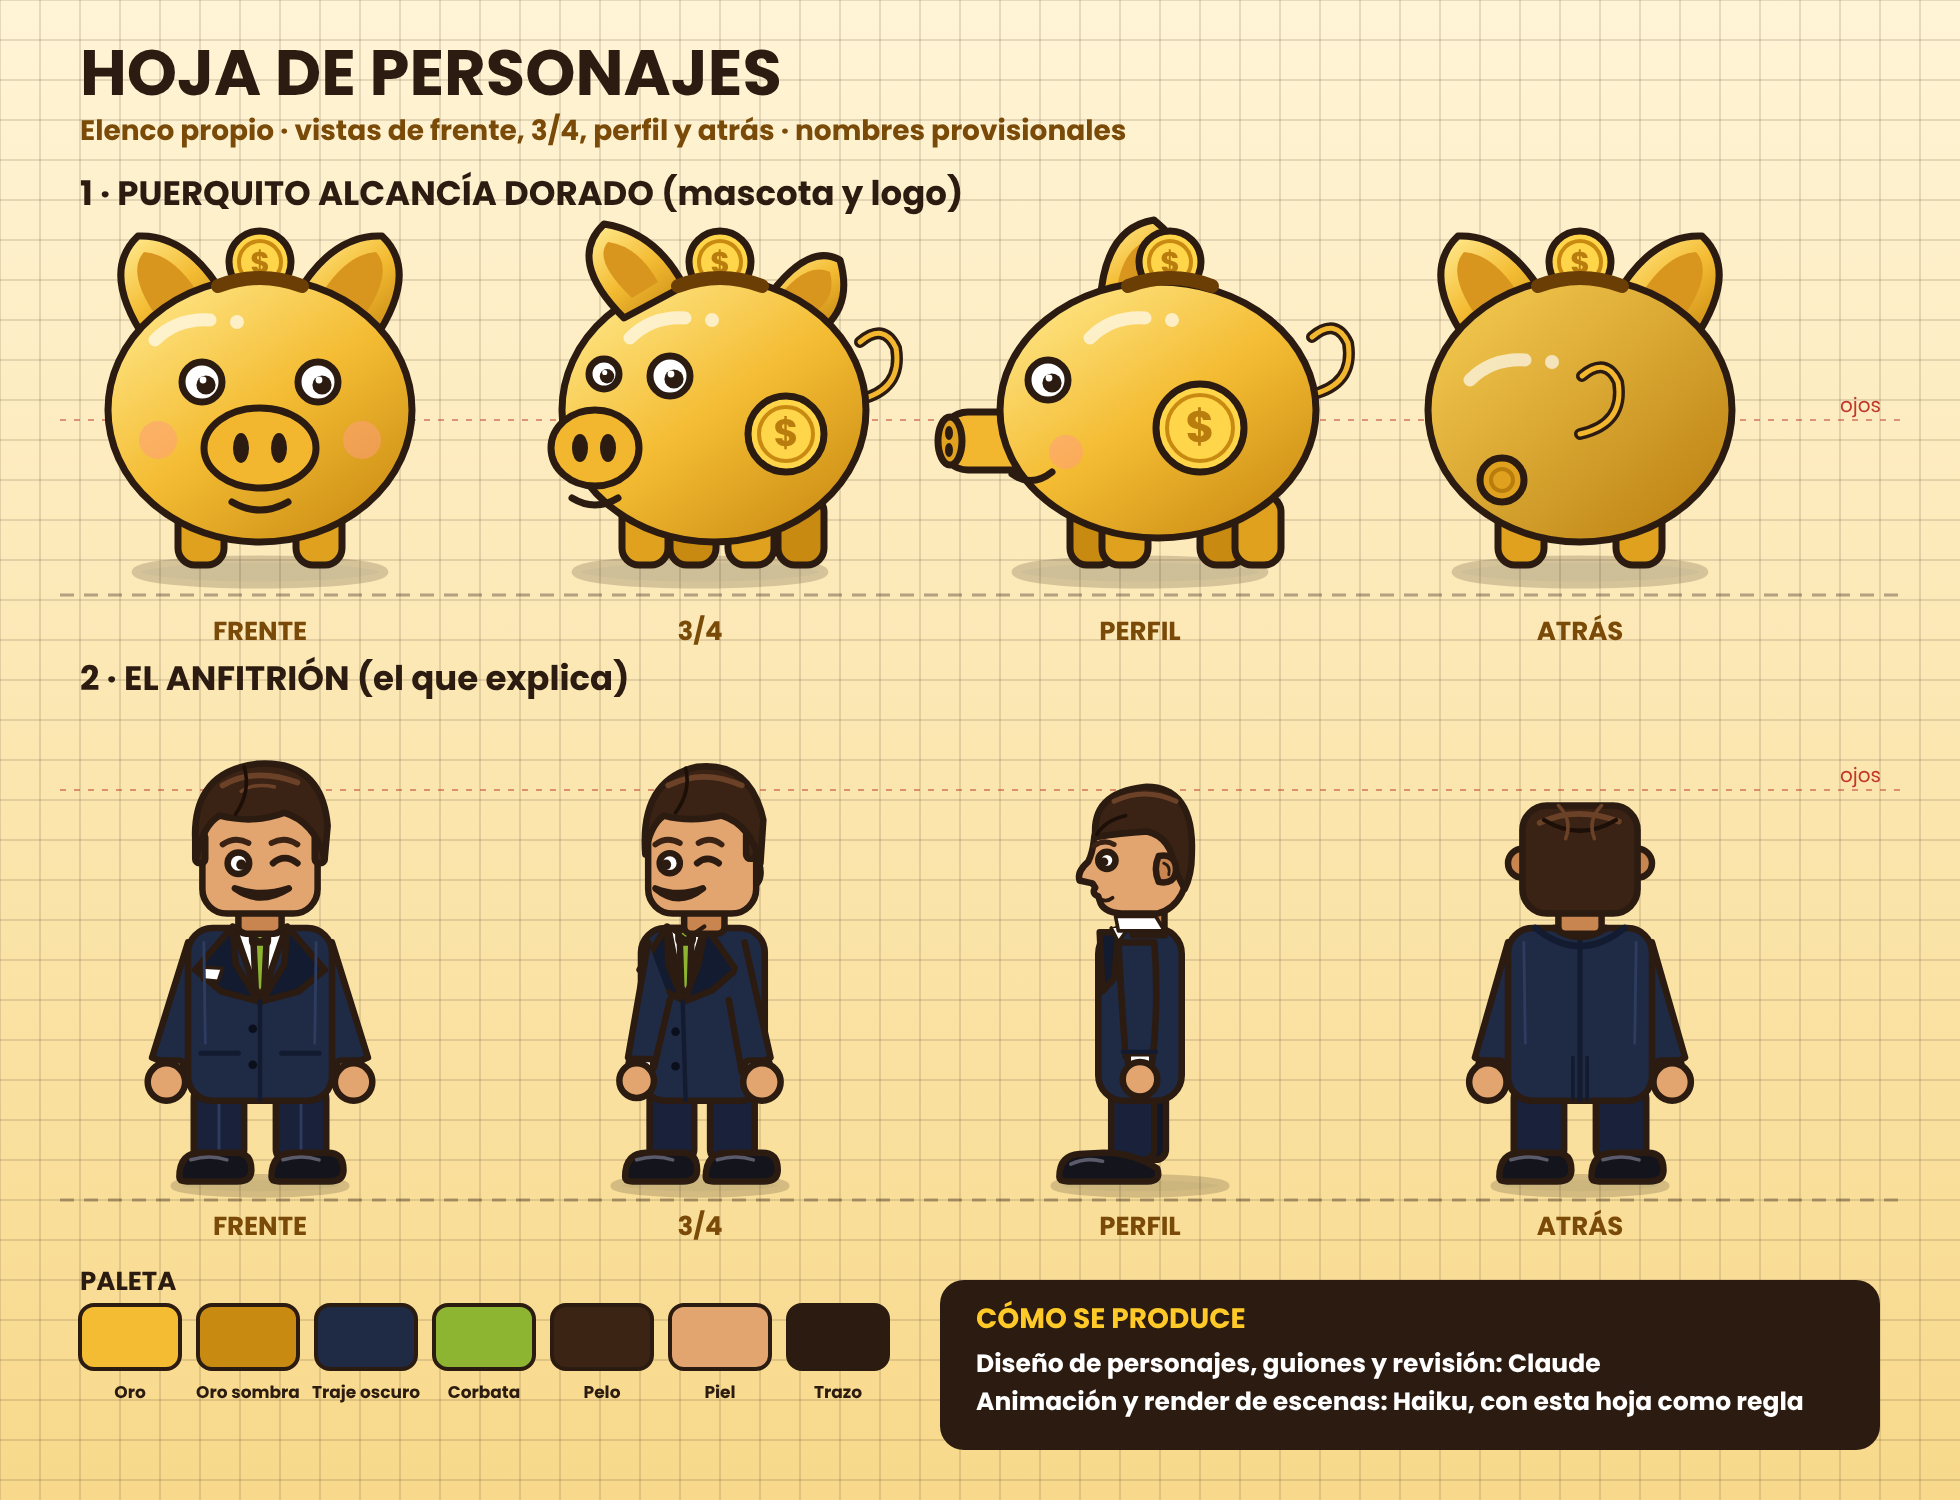
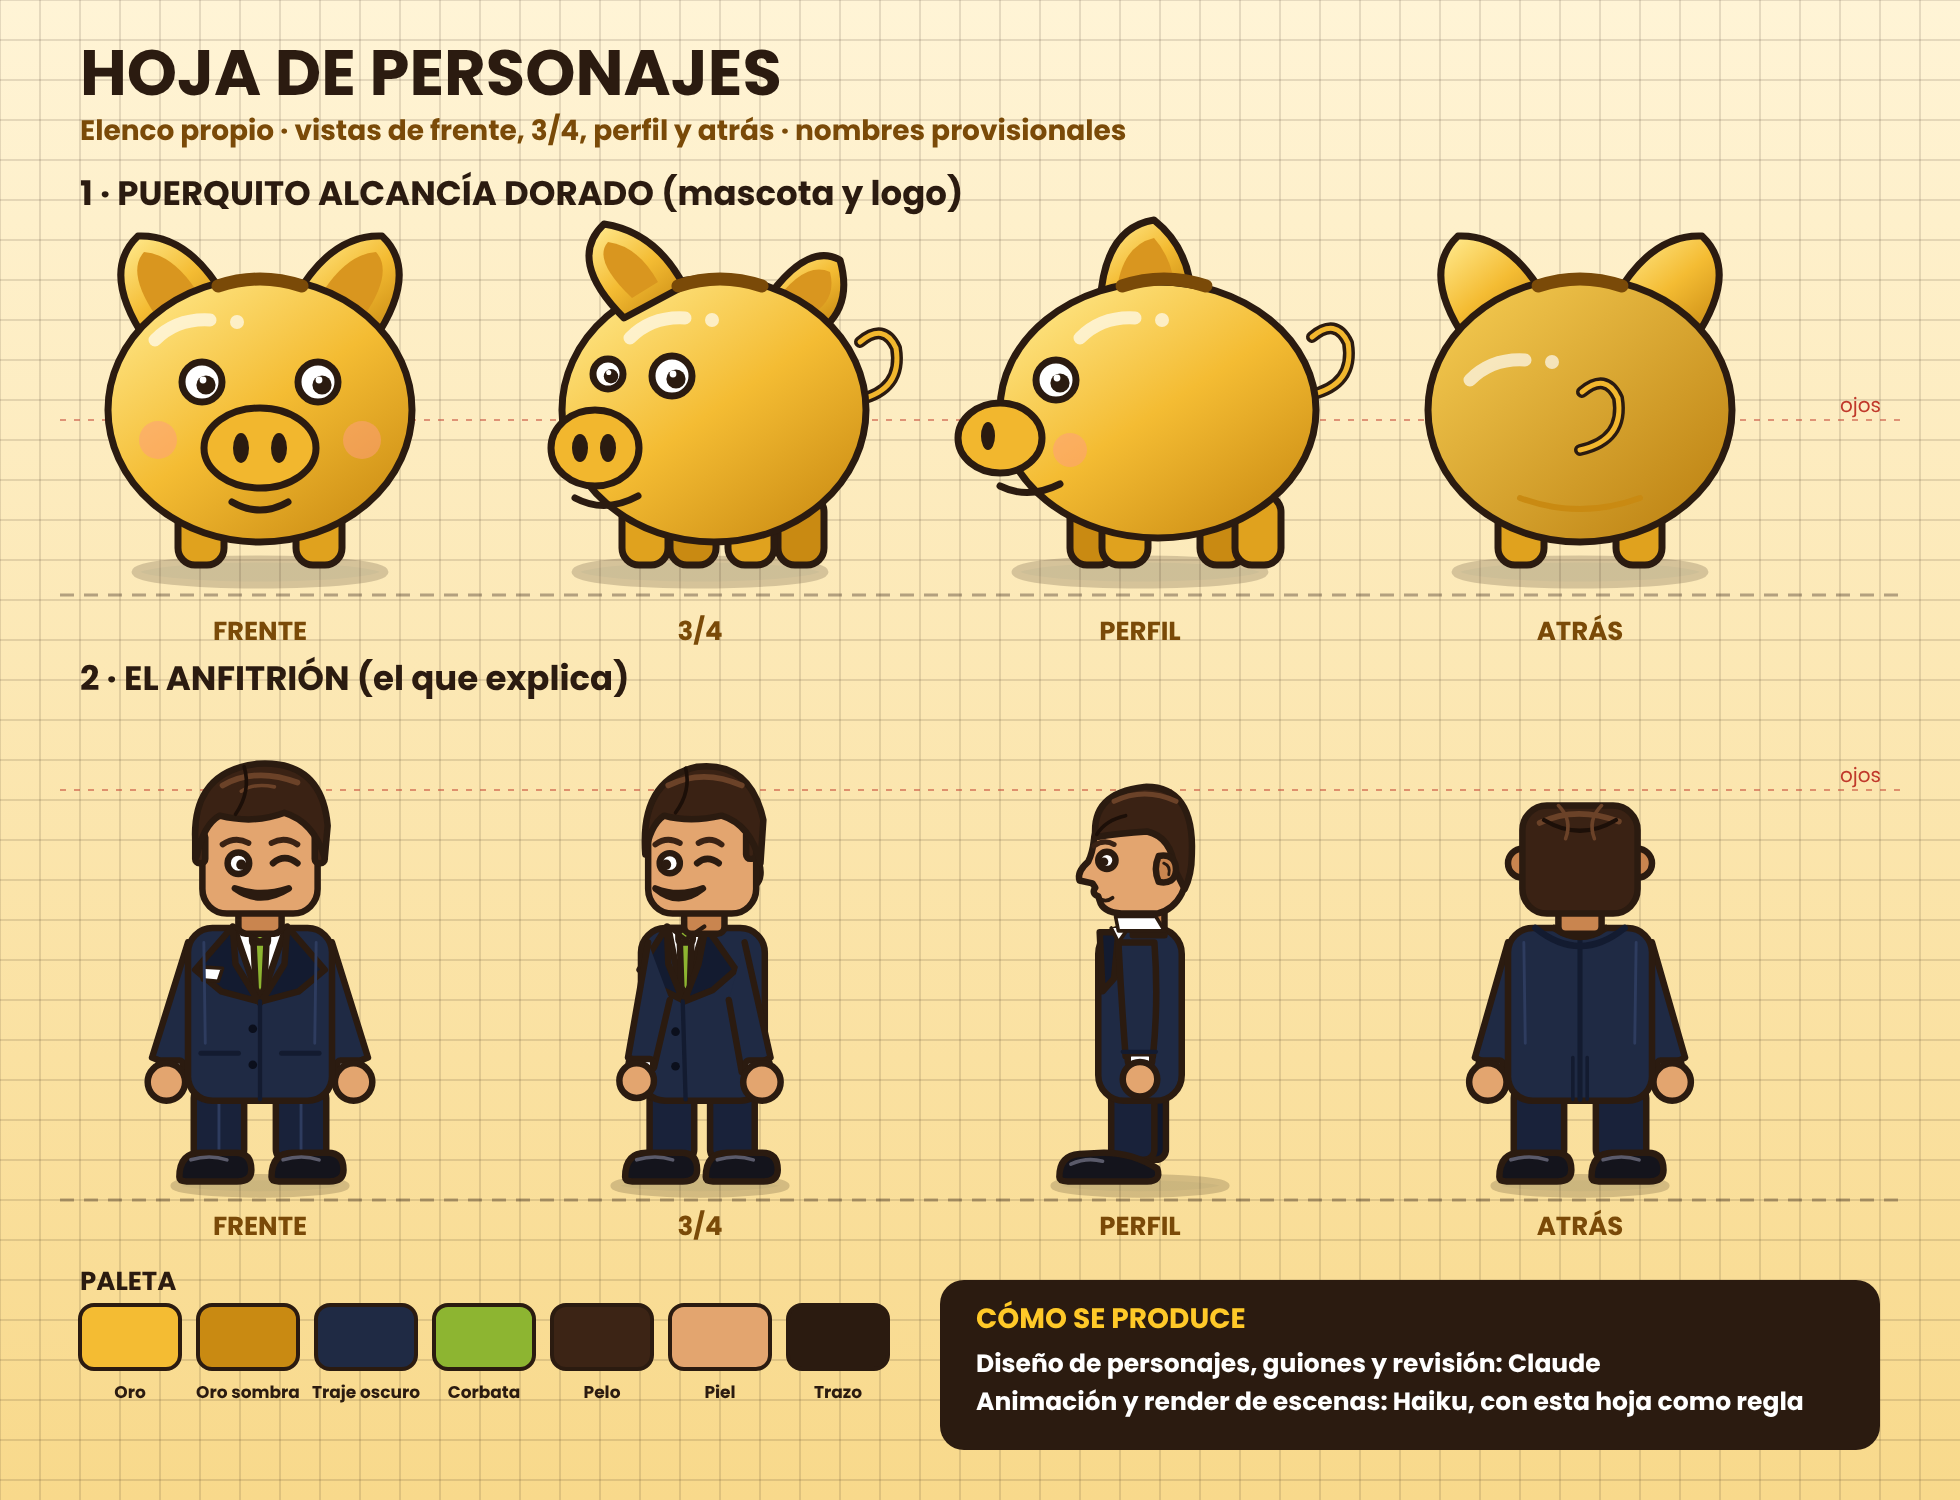
Hoja de personajes v4: puerquito vuelve a la versión anterior, humano v3
Claude-Session: https://claude.ai/code/session_011yrhm4PhhmsXz12GSLZFeN

diff --git a/pruebas/identidad/gen_hoja.py b/pruebas/identidad/gen_hoja.py
@@ -7,26 +7,17 @@ def pig(view):
     def leg(x,dark=False):
         a(f'<rect x="{x}" y="85" width="46" height="70" rx="17" fill="{"#C98A12" if dark else "#E0A21E"}"/>')
     def slot(cx,w=84):
-        a(f'<path d="M{cx-w/2} -124 Q{cx} -140 {cx+w/2} -124" fill="none" stroke="#6B3E06" stroke-width="14"/>')
-    def coin(cx):
-        a(f'<circle cx="{cx}" cy="-148" r="31" fill="#FFD54A"/><circle cx="{cx}" cy="-148" r="21" fill="none" stroke="#C98A12" stroke-width="4"/>')
-        a(f'<text x="{cx}" y="-137" text-anchor="middle" font-family="Poppins,Arial" font-weight="900" font-size="30" fill="#B97D0E" stroke="none">$</text>')
-    def medal(x,y,r=40):
-        a(f'<circle cx="{x}" cy="{y}" r="{r}" fill="#FFD54A"/><circle cx="{x}" cy="{y}" r="{r-11}" fill="none" stroke="#C98A12" stroke-width="4"/>')
-        a(f'<text x="{x}" y="{y+r*.32}" text-anchor="middle" font-family="Poppins,Arial" font-weight="900" font-size="{r*1.0}" fill="#B97D0E" stroke="none">$</text>')
+        a(f'<path d="M{cx-w/2} -124 Q{cx} -138 {cx+w/2} -124" fill="none" stroke="#7A4A08" stroke-width="13"/>')
     def eye(x,y,r=20):
         a(f'<circle cx="{x}" cy="{y}" r="{r}" fill="#fff"/><circle cx="{x+r*.2}" cy="{y+r*.15}" r="{r*.48}" fill="{OL}" stroke="none"/><circle cx="{x+r*.05}" cy="{y-r*.1}" r="{r*.17}" fill="#fff" stroke="none"/>')
     def shine(x,y):
         a(f'<path d="M{x} {y} q22 -22 55 -20" fill="none" stroke="#fff" stroke-width="13" opacity=".65"/><circle cx="{x+82}" cy="{y-18}" r="7" fill="#fff" stroke="none" opacity=".65"/>')
     def tail(x,y,flip=1):
         a(f'<path d="M{x} {y} q{45*flip} -10 {38*flip} -52 q{-12*flip} -26 {-36*flip} -6" fill="none" stroke-width="12"/><path d="M{x} {y} q{45*flip} -10 {38*flip} -52 q{-12*flip} -26 {-36*flip} -6" fill="none" stroke="#F2B72E" stroke-width="5"/>')
-    def ear(d,inner):
-        a(f'<path d="{d}" fill="url(#gold)"/><path d="{inner}" fill="#D9961F" stroke="none"/>')
     if view=='front':
         leg(-82);leg(36)
-        ear("M-114 -70 Q-160 -138 -122 -174 Q-72 -176 -36 -114 Z","M-104 -94 Q-134 -138 -116 -158 Q-88 -156 -64 -120 Z")
-        ear("M114 -70 Q160 -138 122 -174 Q72 -176 36 -114 Z","M104 -94 Q134 -138 116 -158 Q88 -156 64 -120 Z")
-        coin(0)
+        a('<path d="M-114 -70 Q-160 -138 -122 -174 Q-72 -176 -36 -114 Z" fill="url(#gold)"/><path d="M-104 -94 Q-134 -138 -116 -158 Q-88 -156 -64 -120 Z" fill="#D9961F" stroke="none"/>')
+        a('<path d="M114 -70 Q160 -138 122 -174 Q72 -176 36 -114 Z" fill="url(#gold)"/><path d="M104 -94 Q134 -138 116 -158 Q88 -156 64 -120 Z" fill="#D9961F" stroke="none"/>')
         a('<ellipse cx="0" cy="0" rx="152" ry="132" fill="url(#gold)"/>')
         slot(0); shine(-105,-70)
         a('<circle cx="-102" cy="30" r="19" fill="#FF9E7A" opacity=".55" stroke="none"/><circle cx="102" cy="30" r="19" fill="#FF9E7A" opacity=".55" stroke="none"/>')
@@ -35,39 +26,32 @@ def pig(view):
         a('<path d="M-28 92 Q0 108 28 92" fill="none"/>')
     elif view=='tq':
         leg(-30,True);leg(78,True);leg(-78);leg(28)
-        ear("M58 -98 Q104 -170 140 -150 Q152 -108 126 -84 Z","M72 -104 Q104 -150 130 -138 Q136 -114 118 -100 Z")
+        a('<path d="M58 -98 Q104 -170 140 -150 Q152 -108 126 -84 Z" fill="url(#gold)"/><path d="M72 -104 Q104 -150 130 -138 Q136 -114 118 -100 Z" fill="#D9961F" stroke="none"/>')
         tail(158,-10)
-        coin(20)
         a('<ellipse cx="14" cy="0" rx="152" ry="132" fill="url(#gold)"/>')
-        ear("M-76 -92 Q-134 -150 -96 -186 Q-44 -178 -16 -124 Z","M-68 -112 Q-108 -150 -92 -168 Q-62 -164 -42 -128 Z")
+        a('<path d="M-76 -92 Q-134 -150 -96 -186 Q-44 -178 -16 -124 Z" fill="url(#gold)"/><path d="M-68 -112 Q-108 -150 -92 -168 Q-62 -164 -42 -128 Z" fill="#D9961F" stroke="none"/>')
         slot(20); shine(-70,-72)
-        medal(86,24,38)
-        a('<circle cx="-80" cy="30" r="17" fill="#FF9E7A" opacity=".55" stroke="none"/>')
-        eye(-96,-36,15); eye(-30,-34,20)
+        a('<circle cx="-80" cy="38" r="18" fill="#FF9E7A" opacity=".55" stroke="none"/>')
+        eye(-92,-36,15); eye(-28,-34,20)
         a('<ellipse cx="-105" cy="38" rx="44" ry="38" fill="#F2B72E"/><ellipse cx="-120" cy="38" rx="8" ry="14" fill="'+OL+'" stroke="none"/><ellipse cx="-92" cy="38" rx="8" ry="14" fill="'+OL+'" stroke="none"/>')
-        a('<path d="M-128 88 Q-105 102 -82 88" fill="none"/>')
+        a('<path d="M-125 88 Q-95 104 -62 86" fill="none"/>')
     elif view=='side':
         leg(60,True);leg(-70,True);leg(95);leg(-38)
         tail(170,-15)
-        ear("M-40 -106 Q-36 -182 14 -190 Q52 -160 52 -104 Z","M-24 -112 Q-20 -164 14 -172 Q34 -150 36 -112 Z")
-        coin(30)
-        a('<rect x="-198" y="2" width="96" height="58" rx="26" fill="#F2B72E"/>')
-        a('<ellipse cx="-190" cy="31" rx="12" ry="24" fill="#E0A21E"/><ellipse cx="-191" cy="23" rx="4" ry="7" fill="'+OL+'" stroke="none"/><ellipse cx="-191" cy="40" rx="4" ry="7" fill="'+OL+'" stroke="none"/>')
+        a('<path d="M-40 -106 Q-36 -182 14 -190 Q52 -160 52 -104 Z" fill="url(#gold)"/><path d="M-24 -112 Q-20 -164 14 -172 Q34 -150 36 -112 Z" fill="#D9961F" stroke="none"/>')
         a('<ellipse cx="18" cy="0" rx="158" ry="128" fill="url(#gold)"/>')
-        slot(30); shine(-50,-72)
-        medal(60,18,44)
-        a('<circle cx="-74" cy="42" r="17" fill="#FF9E7A" opacity=".55" stroke="none"/>')
-        eye(-92,-30)
-        a('<path d="M-128 64 Q-108 78 -88 62" fill="none"/>')
+        a('<ellipse cx="-140" cy="28" rx="42" ry="35" fill="#F2B72E"/><ellipse cx="-152" cy="26" rx="7" ry="14" fill="'+OL+'" stroke="none"/>')
+        slot(24); shine(-60,-72)
+        a('<circle cx="-70" cy="40" r="17" fill="#FF9E7A" opacity=".55" stroke="none"/>')
+        eye(-84,-30)
+        a('<path d="M-140 76 Q-112 90 -80 74" fill="none"/>')
     elif view=='back':
         leg(-82);leg(36)
-        ear("M-114 -70 Q-160 -138 -122 -174 Q-72 -176 -36 -114 Z","M-104 -94 Q-134 -138 -116 -158 Q-88 -156 -64 -120 Z")
-        ear("M114 -70 Q160 -138 122 -174 Q72 -176 36 -114 Z","M104 -94 Q134 -138 116 -158 Q88 -156 64 -120 Z")
-        coin(0)
+        a('<path d="M-114 -70 Q-160 -138 -122 -174 Q-72 -176 -36 -114 Z" fill="url(#gold)"/><path d="M114 -70 Q160 -138 122 -174 Q72 -176 36 -114 Z" fill="url(#gold)"/>')
         a('<ellipse cx="0" cy="0" rx="152" ry="132" fill="url(#gold2)"/>')
         slot(0); shine(-110,-30)
-        tail(0,24,1)
-        a('<circle cx="-78" cy="70" r="22" fill="#E0A21E"/><circle cx="-78" cy="70" r="11" fill="none" stroke="#B97D0E" stroke-width="4"/>')
+        tail(0,40,1)
+        a('<path d="M-60 88 Q0 110 60 88" fill="none" stroke="#C98A12" stroke-width="6"/>')
     return ''.join(s)
 
 def man(view):
